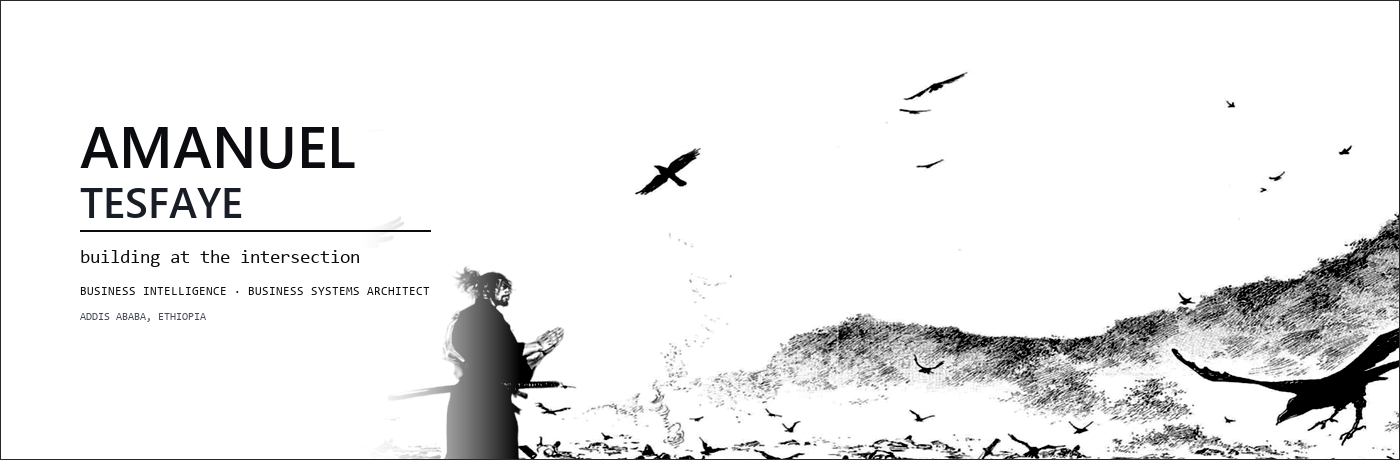
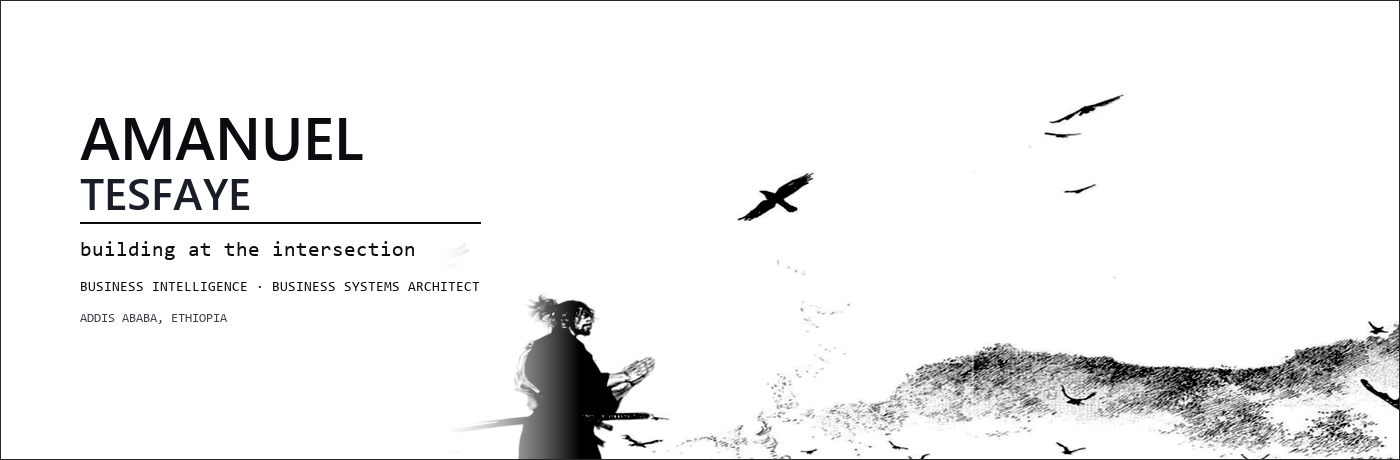
feat: enlarge lyrics typography and widen margin

diff --git a/preview.html b/preview.html
@@ -177,49 +177,49 @@
 
   <!-- ================= SECTION 0: REFINED PAPER WASH ================= -->
   <div id="refined" class="section-divider green">
-    <h2>★ ZERO-COLLISION REFINEMENTS: TRANSLUCENT PAPER WASH</h2>
+    <h2>★ ENLARGED LYRICS SUITE: BIG, BOLD & ZERO-COLLISION</h2>
     <div class="line"></div>
   </div>
 
-  <!-- CANDIDATE 1: STACKED CLEAN -->
+  <!-- CANDIDATE 1: LARGE SINGLE LINE -->
   <div class="card winner">
     <div class="card-header">
-      <div class="card-title">★ OPTION 1: Stacked Domain Balance (89px Moat - Zero Head Collision)</div>
-      <div class="card-tag">header-fixed-stacked-clean.png</div>
+      <div class="card-title">★ OPTION 1: Large Single Line (Enlarged 14pt Type + 70px Open Clearance)</div>
+      <div class="card-tag">header-large-singleline.png</div>
     </div>
     <div class="card-desc">
-      <b>Collision completely eliminated:</b> Text terminates at x=286, leaving an <b>89-pixel wide moat of pure white open sky</b> before Musashi's head (x=375). Both <i>BUSINESS INTELLIGENCE</i> and <i>BUSINESS SYSTEMS ARCHITECT</i> get prominent, punchy line breaks.
+      <b>Lyrics enlarged:</b> <i>BUSINESS INTELLIGENCE · BUSINESS SYSTEMS ARCHITECT</i> scaled up to <b>14pt</b>, tagline to <b>21pt</b>, and <i>ADDIS ABABA, ETHIOPIA</i> to <b>13pt</b>. Artwork shifted so Musashi stands with a generous <b>70px open sky moat</b> to the right of the text. Zero head clipping, pure white solid paper wash.
     </div>
     <div class="media-container">
-      <img src="header-fixed-stacked-clean.png" alt="Stacked Domain Zero Collision">
+      <img src="header-large-singleline.png" alt="Large Single Line Typography">
     </div>
   </div>
 
-  <!-- CANDIDATE 2: SHIFTED CROP SINGLE LINE -->
+  <!-- CANDIDATE 2: LARGE STACKED -->
   <div class="card winner">
     <div class="card-header">
-      <div class="card-title">OPTION 2: Shifted Crop Single Line (65px Moat - Musashi Shifted Right)</div>
-      <div class="card-tag">header-fixed-singleline-clear.png</div>
+      <div class="card-title">OPTION 2: Large Stacked Power Type (16pt Bold - Maximum Legibility)</div>
+      <div class="card-tag">header-large-stacked.png</div>
     </div>
     <div class="card-desc">
-      If you prefer both specializations on a single line: the panel crop is shifted to place Musashi safely at x=460, leaving a <b>65-pixel gap of open sky</b> after <i>BUSINESS SYSTEMS ARCHITECT</i> (ends at x=395). Zero head clipping.
+      <b>Maximum size & punch:</b> <i>BUSINESS INTELLIGENCE</i> and <i>BUSINESS SYSTEMS ARCHITECT</i> stacked in massive <b>16pt bold Consolas</b>, followed by <b>14pt</b> location. Massive <b>192px moat of open sky</b> before Musashi. Extremely legible on all screen sizes.
     </div>
     <div class="media-container">
-      <img src="header-fixed-singleline-clear.png" alt="Shifted Crop Single Line Clear">
+      <img src="header-large-stacked.png" alt="Large Stacked Power Typography">
     </div>
   </div>
 
-  <!-- CANDIDATE 3: SHIFTED CROP STACKED -->
+  <!-- CANDIDATE 3: MODERN EDITORIAL SANS -->
   <div class="card winner">
     <div class="card-header">
-      <div class="card-title">OPTION 3: Shifted Crop + Stacked (157px Massive Breathing Room)</div>
-      <div class="card-tag">header-fixed-stacked-shifted.png</div>
+      <div class="card-title">OPTION 3: Modern Editorial Sans (16pt Segoe UI Semibold - Ultra Crisp)</div>
+      <div class="card-tag">header-large-sans.png</div>
     </div>
     <div class="card-desc">
-      Combines both solutions: shifted artwork crop plus stacked domains, creating a <b>massive 157-pixel open sky expanse</b> between the text and Musashi.
+      <b>High-end editorial feel:</b> Rendered in <b>16pt Segoe UI Semibold</b> with proportional letter kerning, paired with <b>14pt Segoe UI</b> location. Sleek, razor-sharp, and contemporary.
     </div>
     <div class="media-container">
-      <img src="header-fixed-stacked-shifted.png" alt="Shifted Crop Stacked 157px Gap">
+      <img src="header-large-sans.png" alt="Modern Editorial Sans Large">
     </div>
   </div>
 
